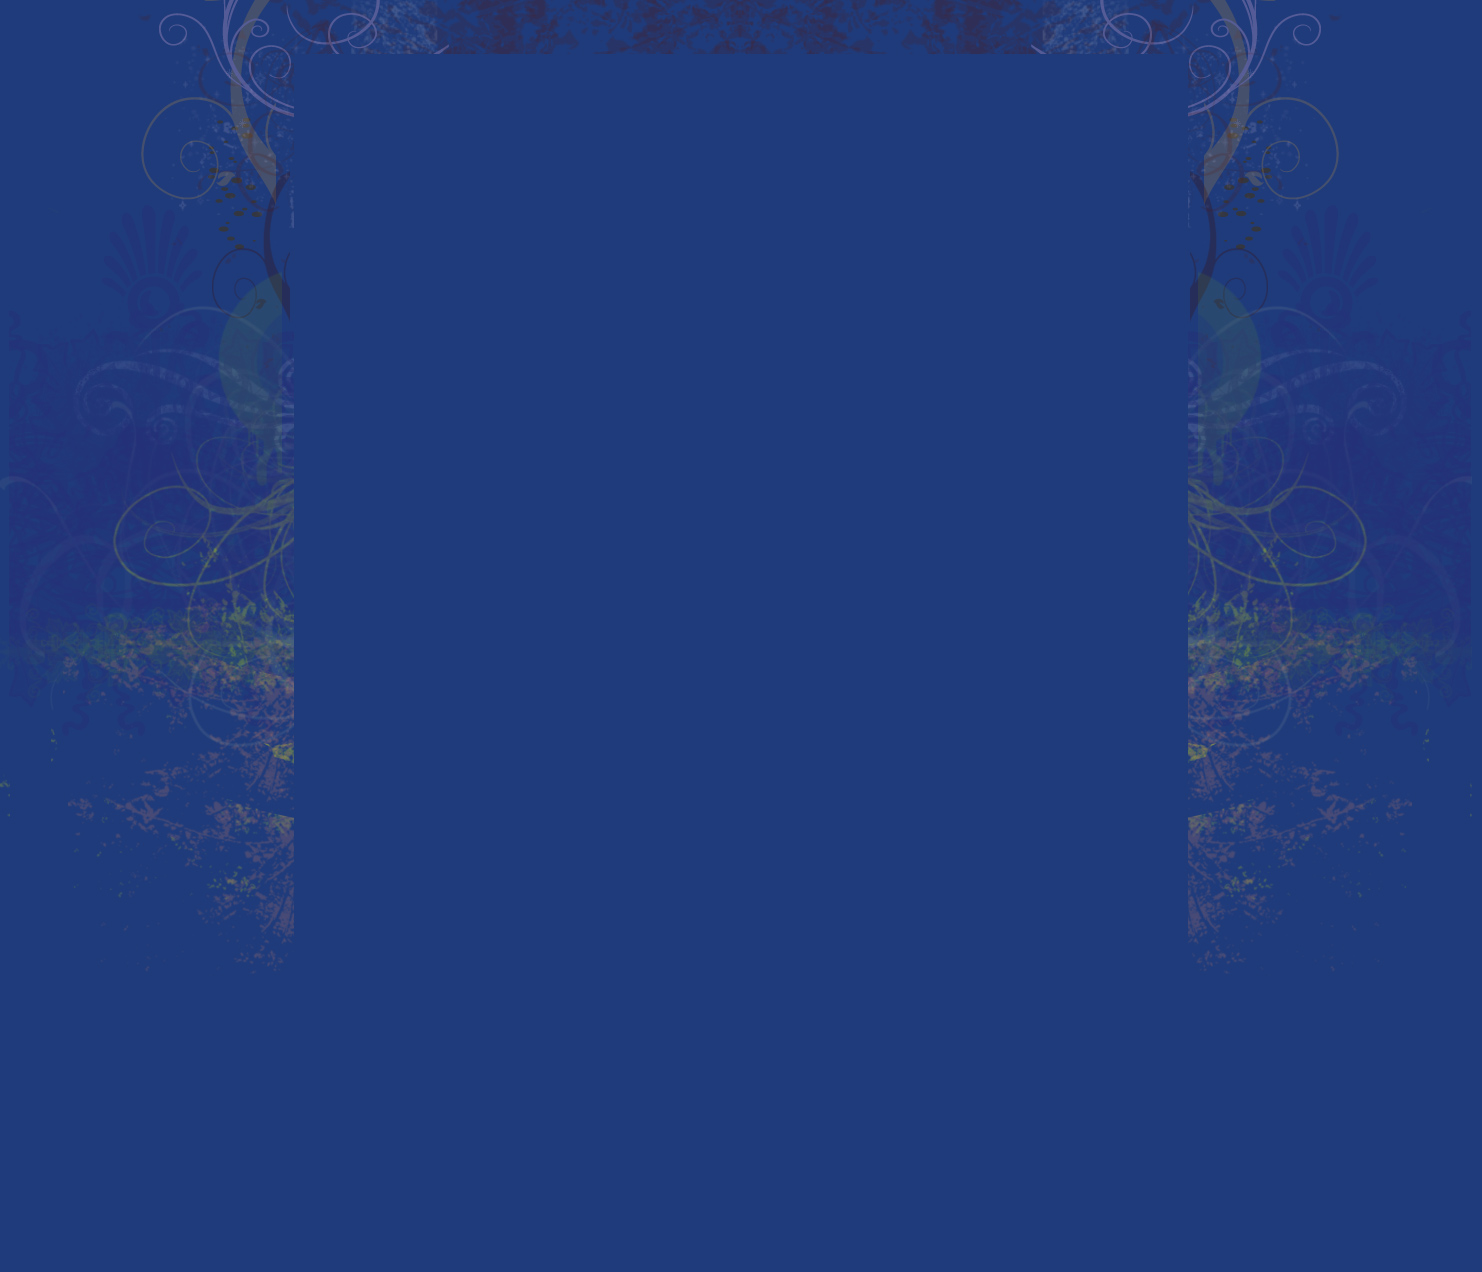
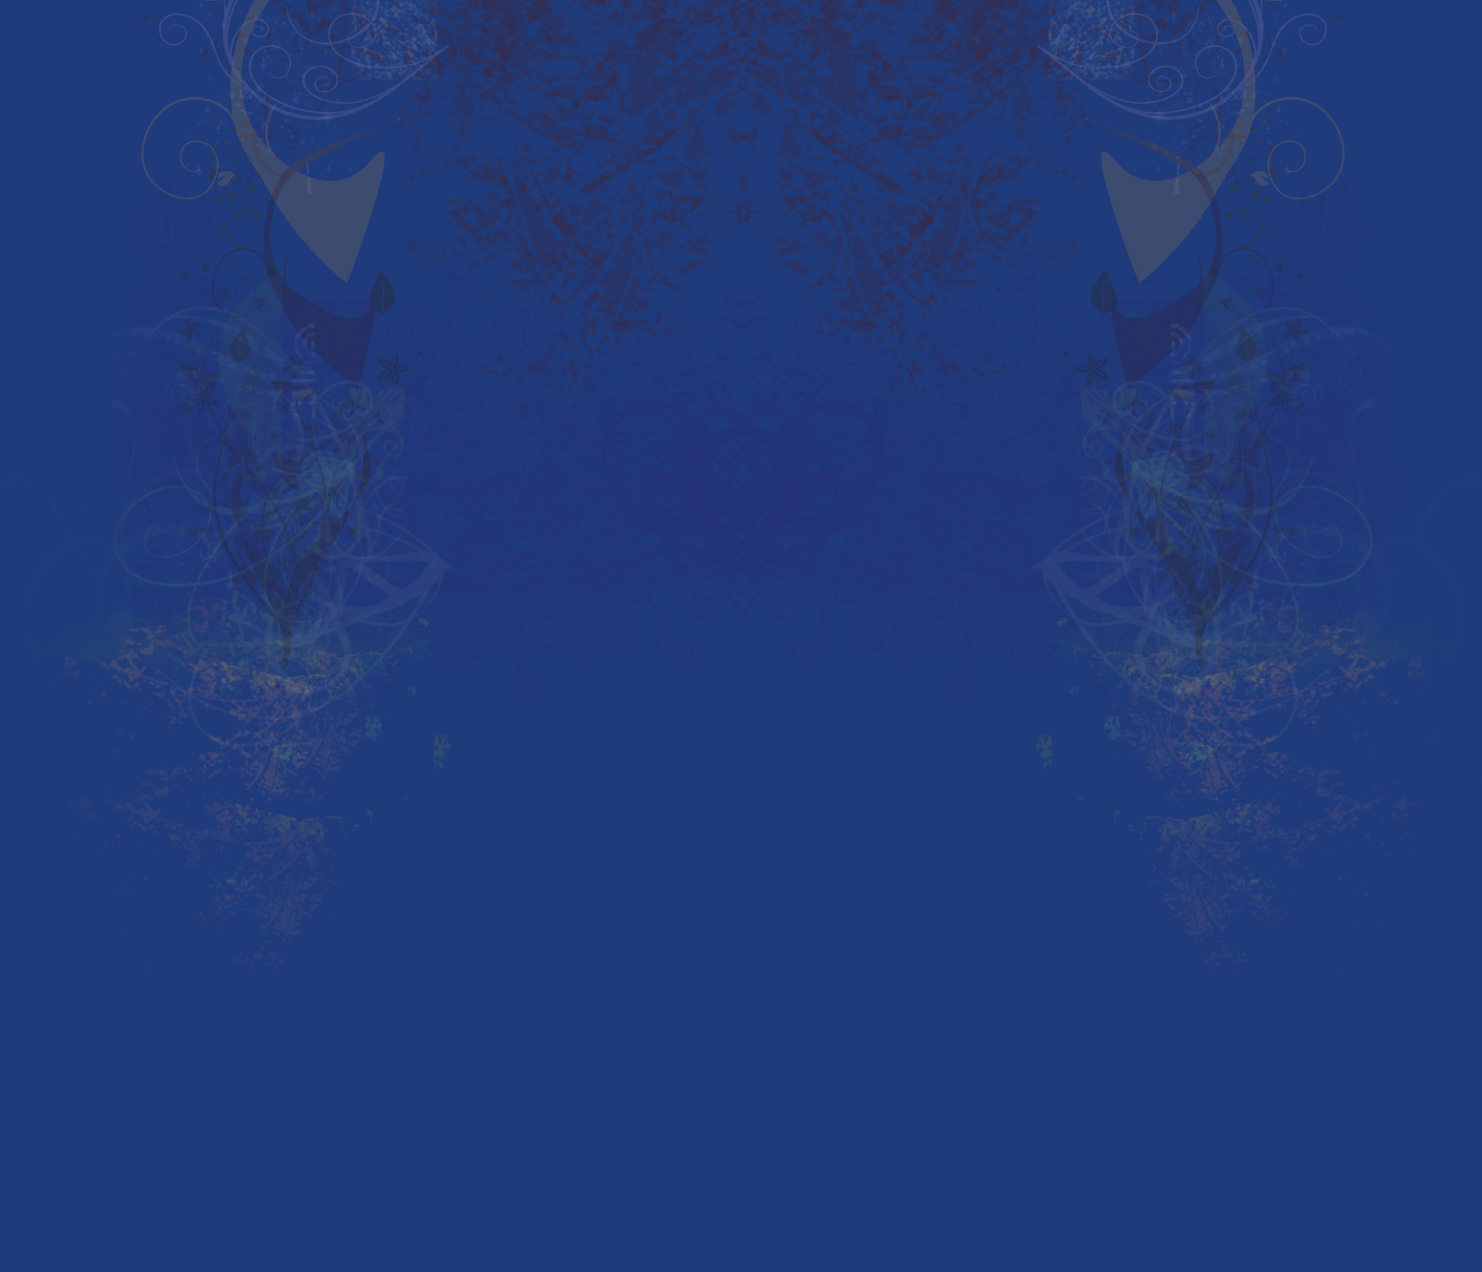
add admin widget and update background

diff --git a/wordpress-content/themes/cchmb-2010/functions.php b/wordpress-content/themes/cchmb-2010/functions.php
@@ -136,6 +136,11 @@ function cchmb_slideshow($attr, $content = null) {
 add_shortcode('slideshow', 'cchmb_slideshow');
 
 
+function cchmb_links() {
+}
+add_shortcode('links', 'cchmb_links');
+
+
 /**
 *  * Get our wp_nav_menu() fallback, wp_page_menu(), to show a home link.
 *   */
@@ -210,4 +215,19 @@ function cchmb_cleanup() {
 	}
 }
 add_action('wp', 'cchmb_cleanup', 90);
+
+function cchmb_admin_widget() {
+	if ( is_front_page() || is_user_logged_in() ) {
+?>
+	<div id="admin-widget">
+		<ul>
+			<?php wp_register(); ?>
+			<li><?php wp_loginout(); ?></li>
+		</ul>
+	</div>
+<?php
+	}
+}
+add_action('wp_footer', 'cchmb_admin_widget');
+
 ?>
